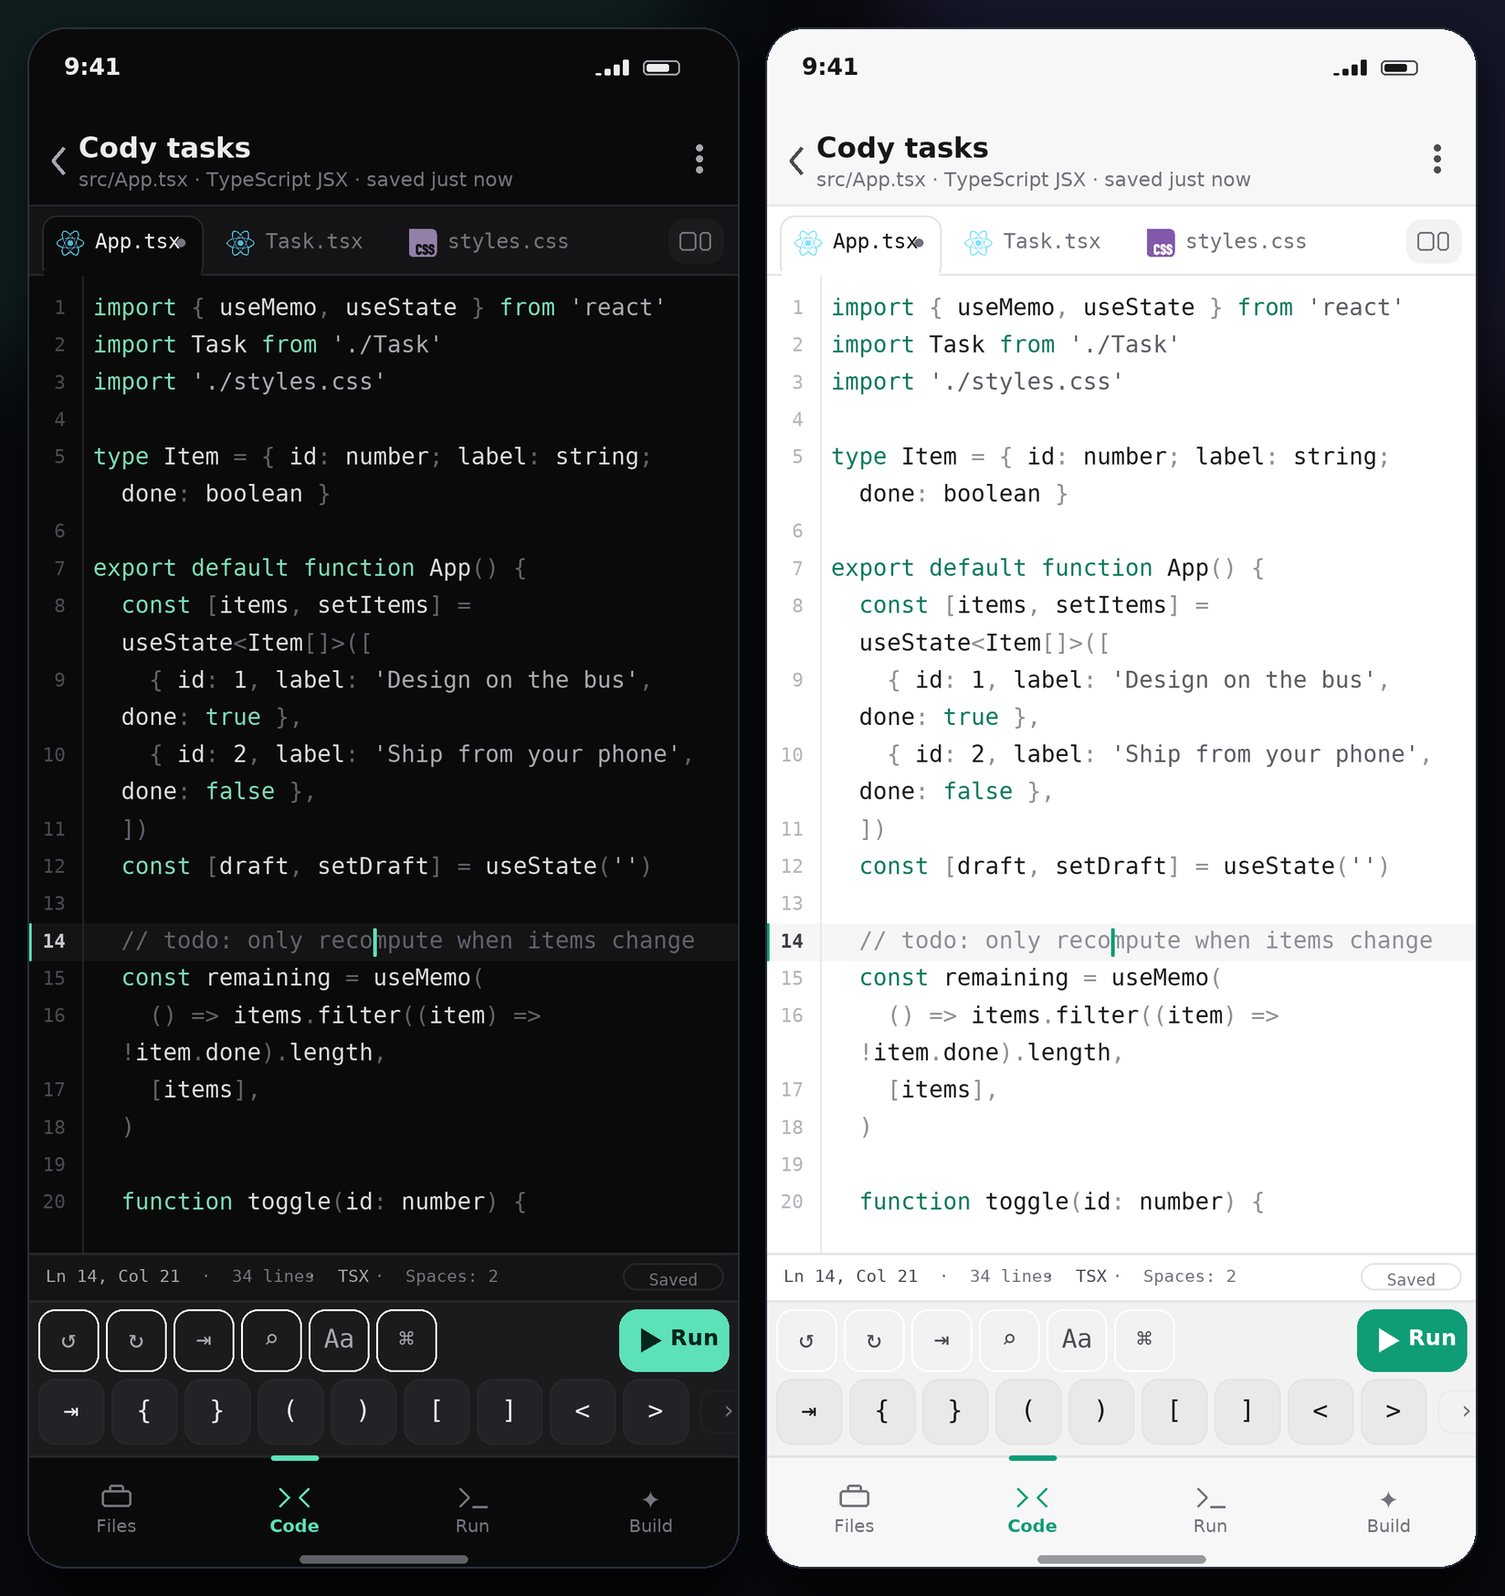
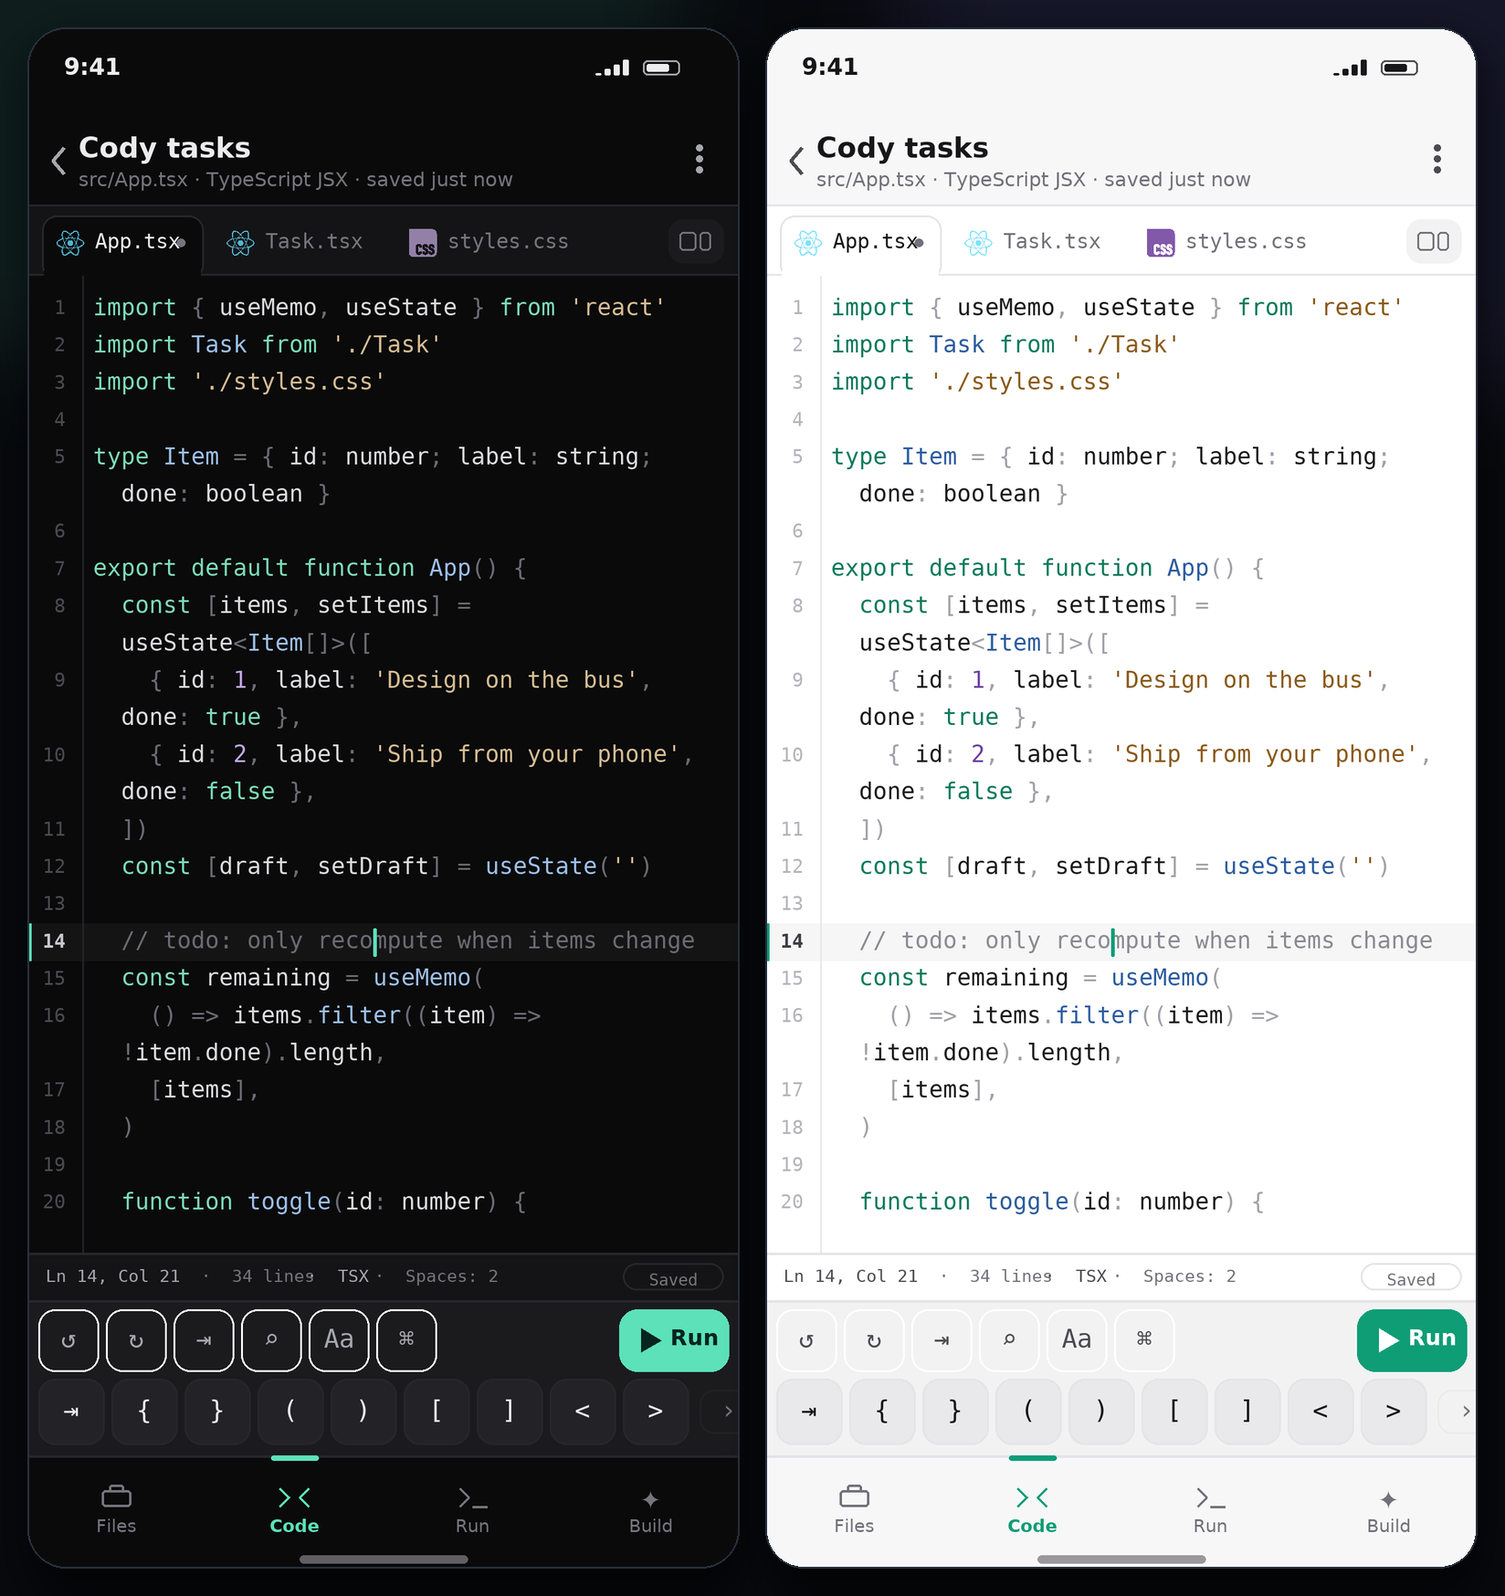
feat(syntax): real syntax highlighting for all 27 languages
The single-hue palette I shipped last round left keywords, strings, numbers and
functions the same grey, which reads as 'no syntax highlighting'. Restored a
purpose-built syntax palette and proved every language actually uses it.

- editor/theme.ts: four hues over a neutral ink ramp — mint (keywords, tags,
  self), sand (strings, text, escapes), mauve (numbers, constants, units),
  steel (functions, types, classes), grey italic (comments), dim (properties),
  faint (punctuation/operators), one red for invalid. Both themes, same six
  colours; the highlighter now also covers bool/null/atom/constant, modifiers,
  compare/arithmetic/logic/bitwise operators, doc strings and headings.
- fix(languages): C# and Kotlin had no highlighting at all — they were routed
  through a clikeMode() helper that no longer exists in @codemirror/legacy-modes
  6 (the export is a ready-made StreamParser). Both now use the plain legacy
  loader, so all 27 advertised languages have a grammar.
- scripts/test-syntax.ts (new suite): parses a real sample in every language,
  asserts the highlighter emitted >= 2 distinct styles, and that keywords /
  comments / strings in Python, CSS properties vs values, and JSON keys vs
  numbers land on different styles, in both themes.
- app smoke test now asserts the live editor splits a file into styled spans.
- mock renderer maps the new palette slots.

diff --git a/src/editor/theme.ts b/src/editor/theme.ts
@@ -15,21 +15,28 @@ type Palette = {
   gutterActive: string
   panel: string
   border: string
-  /** The only hue in the editor. Same family as the app accent (mint). */
-  key: string
-  /** Softer step of the same hue, for strings and markup values. */
-  keySoft: string
-  /** One muted red, reserved for actual errors. */
+  /** Four syntax hues and a grey ramp. Nothing else is coloured. */
+  keyword: string
+  string: string
+  number: string
+  func: string
+  comment: string
+  property: string
+  operator: string
+  /** One muted red, reserved for invalid code. */
   invalid: string
 }
 
-/** Two palettes, one hue.
+/** Two palettes, four hues.
  *
- *  A phone screen is small and a phone editor is read in glances, so the syntax
- *  palette is a neutral ink ramp: brightness and weight carry the structure,
- *  comments recede into italic grey, and a single mint — the same mint as the
- *  app's accent — marks the parts that drive a program (keywords, tags). One
- *  red exists only for invalid code. Nothing else is coloured. */
+ *  Syntax has to be *read*: a keyword, a string, a number and a function body
+ *  should not all be the same grey. But an editor on a phone is not a
+ *  highlighter demo either, so the palette is deliberately small — mint for the
+ *  words that shape a program (keywords, tags, `self`), warm sand for strings
+ *  and literals, steel blue for things you can call or construct, mauve for
+ *  numbers and constants — over a neutral ink ramp for everything else.
+ *  Comments fade to italic grey, properties to dim grey, punctuation to faint
+ *  grey, so structure recedes and no line turns into confetti. */
 const DARK: Palette = {
   bg: '#0a0a0b',
   fg: '#dcdcdf',
@@ -43,8 +50,13 @@ const DARK: Palette = {
   gutterActive: '#c8c8cd',
   panel: '#141416',
   border: '#27272b',
-  key: '#7ddcb8',
-  keySoft: '#a9a9b0',
+  keyword: '#7ddcb8',
+  string: '#d6bd93',
+  number: '#c3a9e8',
+  func: '#9dc0e8',
+  comment: '#6b6b74',
+  property: '#a2a2ab',
+  operator: '#6b6b74',
   invalid: '#e06c6c',
 }
 
@@ -61,8 +73,13 @@ const LIGHT: Palette = {
   gutterActive: '#3d3d44',
   panel: '#f5f5f6',
   border: '#e4e4e7',
-  key: '#0b7a5c',
-  keySoft: '#5c5c64',
+  keyword: '#0b7a5c',
+  string: '#8a5a1a',
+  number: '#6b3fa0',
+  func: '#2c5c9e',
+  comment: '#8a8a92',
+  property: '#4b4b52',
+  operator: '#a0a0a8',
   invalid: '#b3403f',
 }
 
@@ -186,31 +203,65 @@ function theme(p: Palette, dark: boolean) {
 
 function highlight(p: Palette) {
   return HighlightStyle.define([
-    // the one hue: the words that shape the program
-    { tag: [t.keyword, t.controlKeyword, t.moduleKeyword, t.definitionKeyword, t.modifier], color: p.key },
-    { tag: [t.tagName, t.angleBracket], color: p.key },
-    // strings sit one step softer than keywords — same family, less volume
-    { tag: [t.string, t.special(t.string), t.character, t.regexp, t.attributeValue], color: p.keySoft },
-    // neutral ink: weight and tone do the work
-    { tag: [t.comment, t.lineComment, t.blockComment, t.docComment], color: p.faint, fontStyle: 'italic' },
-    { tag: [t.function(t.variableName), t.function(t.propertyName), t.labelName], color: p.fg, fontWeight: '600' },
-    { tag: [t.typeName, t.className, t.namespace, t.standard(t.name), t.definition(t.name)], color: p.fg, fontWeight: '600' },
-    { tag: [t.propertyName, t.attributeName], color: p.dim },
-    { tag: [t.number, t.integer, t.float, t.bool, t.null, t.atom], color: p.fg },
-    { tag: [t.operator, t.operatorKeyword, t.derefOperator], color: p.dim },
-    { tag: [t.punctuation, t.bracket, t.separator, t.squareBracket, t.paren, t.brace], color: p.faint },
-    { tag: [t.meta, t.annotation, t.processingInstruction], color: p.faint },
-    { tag: [t.variableName, t.name], color: p.fg },
-    { tag: [t.heading, t.heading1, t.heading2, t.strong], color: p.fg, fontWeight: '700' },
-    { tag: [t.link, t.url], color: p.fg, textDecoration: 'underline' },
+    // mint — the words that shape a program
+    {
+      tag: [
+        t.keyword, t.controlKeyword, t.moduleKeyword, t.definitionKeyword, t.modifier,
+        t.self, t.controlOperator, t.definitionOperator, t.tagName, t.angleBracket,
+      ],
+      color: p.keyword,
+    },
+    // sand — text that the program carries around
+    {
+      tag: [
+        t.string, t.special(t.string), t.character, t.regexp, t.attributeValue,
+        t.escape, t.docString,
+      ],
+      color: p.string,
+    },
+    // mauve — values and constants
+    {
+      tag: [t.number, t.integer, t.float, t.bool, t.null, t.atom, t.constant(t.name), t.literal, t.unit],
+      color: p.number,
+    },
+    // steel — things you call, construct or name as a type
+    {
+      tag: [
+        t.function(t.variableName), t.function(t.propertyName), t.labelName, t.macroName,
+        t.typeName, t.className, t.namespace, t.standard(t.name), t.definition(t.typeName),
+      ],
+      color: p.func,
+    },
+    { tag: [t.color], color: p.number },
+    { tag: [t.comment, t.lineComment, t.blockComment, t.docComment], color: p.comment, fontStyle: 'italic' },
+    { tag: [t.propertyName, t.attributeName], color: p.property },
+    { tag: [t.operator, t.operatorKeyword, t.derefOperator, t.updateOperator], color: p.operator },
+    {
+      tag: [t.punctuation, t.bracket, t.separator, t.squareBracket, t.paren, t.brace, t.compareOperator, t.arithmeticOperator, t.logicOperator, t.bitwiseOperator],
+      color: p.faint,
+    },
+    { tag: [t.meta, t.annotation, t.processingInstruction, t.documentMeta], color: p.comment },
+    { tag: [t.variableName, t.name, t.definition(t.name)], color: p.fg },
+    { tag: [t.heading, t.heading1, t.heading2, t.heading3], color: p.keyword, fontWeight: '700' },
+    { tag: [t.strong], color: p.fg, fontWeight: '700' },
     { tag: [t.emphasis], fontStyle: 'italic' },
     { tag: [t.strikethrough], textDecoration: 'line-through' },
-    { tag: [t.escape], color: p.keySoft },
+    { tag: [t.link, t.url], color: p.func, textDecoration: 'underline' },
+    { tag: [t.list], color: p.keyword },
+    { tag: [t.monospace], color: p.string },
+    { tag: [t.inserted], color: p.keyword },
+    { tag: [t.deleted], color: p.invalid },
+    { tag: [t.changed], color: p.number },
     { tag: [t.invalid], color: p.invalid },
   ])
 }
 
+/** Raw highlight styles — also used by scripts/test-syntax.ts to prove tokens
+ *  actually get distinct styles for every language. */
+export const codyHighlightStyleDark = highlight(DARK)
+export const codyHighlightStyleLight = highlight(LIGHT)
+
 export const codyDarkTheme = theme(DARK, true)
 export const codyLightTheme = theme(LIGHT, false)
-export const codyHighlightDark = syntaxHighlighting(highlight(DARK))
-export const codyHighlightLight = syntaxHighlighting(highlight(LIGHT))
+export const codyHighlightDark = syntaxHighlighting(codyHighlightStyleDark)
+export const codyHighlightLight = syntaxHighlighting(codyHighlightStyleLight)

diff --git a/scripts/test-syntax.ts b/scripts/test-syntax.ts
@@ -1,0 +1,115 @@
+/**
+ * Syntax highlighting, language by language.
+ *
+ * "The editor has no syntax" is a failure that type-checks and renders fine, so
+ * this suite loads **every** language Cody advertises, parses a real sample, and
+ * asserts the highlighter actually emitted distinct styles — plus that the
+ * keywords, strings and comments of that language land on different ones.
+ */
+import { EditorState } from '@codemirror/state'
+import { syntaxTree } from '@codemirror/language'
+import { highlightTree } from '@lezer/highlight'
+import { LANGUAGES, loadLanguageExtension } from '../src/lib/languages'
+import { codyHighlightStyleDark, codyHighlightStyleLight } from '../src/editor/theme'
+
+let failed = 0
+function check(name: string, ok: boolean, detail = '') {
+  if (ok) {
+    console.log(`  ok   ${name}`)
+  } else {
+    failed += 1
+    console.log(`  FAIL ${name}${detail ? ` — ${detail}` : ''}`)
+  }
+}
+
+/** One realistic sample per language: enough tokens to colour. */
+const SAMPLES: Record<string, string> = {
+  javascript: "// pick a name\nconst greet = (who) => `hi ${who}`\nconsole.log(greet('cody'), 42)\n",
+  typescript: "// typed\ntype Point = { x: number; y: number }\nconst at = (p: Point): string => `${p.x}`\n",
+  tsx: "// component\nconst App = () => <div className=\"card\">hi {42}</div>\nexport default App\n",
+  jsx: "// element\nconst el = <button onClick={() => 1}>go</button>\n",
+  html: "<!-- page -->\n<main class=\"wrap\"><h1>Hello</h1></main>\n",
+  css: "/* theme */\n.card {\n  color: #5ce1b9;\n  margin: 2rem;\n}\n",
+  json: '{\n  "name": "cody",\n  "count": 3,\n  "ok": true\n}\n',
+  markdown: '# Cody\n\nSome **bold** text and `code`.\n\n- item\n',
+  python: "def greet(name):\n    # say hi\n    return f'hi {name}' if name else None\n\nprint(greet('cody'), 42)\n",
+  sql: "-- rows\nSELECT id, name FROM users WHERE age > 18\n",
+  xml: '<?xml version="1.0"?>\n<root attr="1"><child>text</child></root>\n',
+  yaml: "# config\nname: cody\ncount: 3\nitems:\n  - one\n",
+  toml: '# config\nname = "cody"\ncount = 3\n',
+  shell: "#!/bin/bash\n# build\nfor f in *.ts; do echo \"$f\"; done\n",
+  c: "#include <stdio.h>\n// main\nint main(void) { return 0; }\n",
+  cpp: "#include <string>\n// class\nclass Dog { public: int age = 3; };\n",
+  java: "// hello\npublic class Main { public static void main(String[] a) { System.out.println(1); } }\n",
+  csharp: "// hello\npublic class Main { static void Run() { var x = 1; } }\n",
+  go: "// main\npackage main\n\nfunc main() { name := \"cody\"; fmt.Println(name) }\n",
+  rust: "// main\nfn main() { let name = \"cody\"; println!(\"{}\", name); }\n",
+  php: "<?php\n// page\n$name = 'cody';\necho $name;\n",
+  ruby: "# greet\ndef greet(name)\n  puts \"hi #{name}\"\nend\n",
+  lua: "-- greet\nlocal function greet(name)\n  print('hi ' .. name)\nend\n",
+  swift: "// greet\nlet name = \"cody\"\nfunc greet(_ who: String) -> String { return \"hi\" }\n",
+  kotlin: "// greet\nfun greet(name: String): String { return \"hi $name\" }\n",
+  dockerfile: "# image\nFROM node:22\nRUN npm install\n",
+  diff: "--- a/x\n+++ b/x\n@@ -1 +1 @@\n-old\n+new\n",
+}
+
+/** Tokens whose styling this suite insists on seeing per language family. */
+type Sample = { code: string; classes: Set<string>; text: Map<string, Set<string>> }
+
+async function style(code: string, languageId: string, light = false): Promise<Sample> {
+  const lang = await loadLanguageExtension(languageId)
+  const state = EditorState.create({ doc: code, extensions: [lang] })
+  const style_ = light ? codyHighlightStyleLight : codyHighlightStyleDark
+  const classes = new Set<string>()
+  const text = new Map<string, Set<string>>()
+  highlightTree(syntaxTree(state), style_, (from, to, cls) => {
+    classes.add(cls)
+    const slice = code.slice(from, to).trim()
+    if (!slice) return
+    if (!text.has(slice)) text.set(slice, new Set())
+    text.get(slice)!.add(cls)
+  })
+  return { code, classes, text }
+}
+
+const CLASS_OF = (sample: Sample, snippet: string) => [...(sample.text.get(snippet) ?? [])][0] ?? ''
+
+for (const language of LANGUAGES) {
+  // plain text has no grammar on purpose: it renders as-is
+  if (language.id === 'text') {
+    check('text: deliberately has no grammar', true)
+    continue
+  }
+  const sample = SAMPLES[language.id]
+  if (!sample) {
+    check(`${language.id}: has a syntax sample`, false, 'no sample in scripts/test-syntax.ts')
+    continue
+  }
+  const styled = await style(sample, language.id)
+  check(`${language.id}: tokens are styled (${styled.classes.size} styles)`, styled.classes.size >= 2, [...styled.classes].join(','))
+}
+
+// A few semantic assertions: the colours must differ from each other.
+const py = await style(SAMPLES.python, 'python')
+check('python: keywords, comments and strings differ', new Set([
+  CLASS_OF(py, 'def'),
+  CLASS_OF(py, '# say hi'),
+  CLASS_OF(py, "'cody'"),
+]).size === 3, JSON.stringify([CLASS_OF(py, 'def'), CLASS_OF(py, '# say hi'), CLASS_OF(py, "'cody'")]))
+
+const css = await style(SAMPLES.css, 'css')
+check('css: properties and values differ', CLASS_OF(css, 'color') !== CLASS_OF(css, '#5ce1b9'), `${CLASS_OF(css, 'color')} / ${CLASS_OF(css, '#5ce1b9')}`)
+
+const json = await style(SAMPLES.json, 'json')
+check('json: keys and strings differ from numbers', CLASS_OF(json, '"name"') !== CLASS_OF(json, '3'), `${CLASS_OF(json, '"name"')} / ${CLASS_OF(json, '3')}`)
+
+const md = await style(SAMPLES.markdown, 'markdown')
+check('markdown: heading styled', Boolean(CLASS_OF(md, 'Cody')), 'Cody (heading text)')
+
+const lightPy = await style(SAMPLES.python, 'python', true)
+check('light theme styles too', lightPy.classes.size >= 2 && [...lightPy.classes].join() !== [...py.classes].join(), [...lightPy.classes].join(','))
+
+check('every advertised language has a sample', Object.keys(SAMPLES).length === LANGUAGES.filter((l) => l.id !== 'text').length)
+
+console.log(failed === 0 ? '\nAll syntax checks passed' : `\n${failed} syntax check(s) failed`)
+process.exit(failed === 0 ? 0 : 1)

diff --git a/src/lib/languages.ts b/src/lib/languages.ts
@@ -96,14 +96,6 @@ const legacy = (load: () => Promise<Record<string, unknown>>, key: string) => as
   return StreamLanguage.define(mod[key] as never)
 }
 
-function clikeMode(load: () => Promise<Record<string, unknown>>, name: string) {
-  return async () => {
-    const mod = await load()
-    const language = (mod.cLike as (config: unknown) => unknown)(mod[name])
-    return StreamLanguage.define(language as never)
-  }
-}
-
 const LOADERS: Record<string, () => Promise<Extension>> = {
   javascript: lazy(async () => (await import('@codemirror/lang-javascript')).javascript()),
   jsx: lazy(async () => (await import('@codemirror/lang-javascript')).javascript({ jsx: true })),
@@ -132,8 +124,8 @@ const LOADERS: Record<string, () => Promise<Extension>> = {
   swift: legacy(() => import('@codemirror/legacy-modes/mode/swift'), 'swift'),
   dockerfile: legacy(() => import('@codemirror/legacy-modes/mode/dockerfile'), 'dockerFile'),
   diff: legacy(() => import('@codemirror/legacy-modes/mode/diff'), 'diff'),
-  csharp: clikeMode(() => import('@codemirror/legacy-modes/mode/clike'), 'csharp'),
-  kotlin: clikeMode(() => import('@codemirror/legacy-modes/mode/clike'), 'kotlin'),
+  csharp: legacy(() => import('@codemirror/legacy-modes/mode/clike'), 'csharp'),
+  kotlin: legacy(() => import('@codemirror/legacy-modes/mode/clike'), 'kotlin'),
 }
 
 export function loadLanguageExtension(languageId: string): Promise<Extension> {

diff --git a/scripts/test-app.tsx b/scripts/test-app.tsx
@@ -245,6 +245,15 @@ async function main() {
   check('file switch remounts editor', Boolean(dom.window.document.querySelector('.cm-editor')))
   check('switched file content loaded', mergedContent.includes('<main') || mergedContent.includes('doctype'), mergedContent.slice(0, 40))
   check('tab strip now has two tabs', dom.window.document.querySelectorAll('.tab-chip').length >= 2)
+  // syntax highlighting end-to-end: the parser must have split a line into styled spans
+  const highlighted = [...dom.window.document.querySelectorAll('.cm-line span')].filter(
+    (span) => (span.textContent ?? '').trim().length > 0,
+  )
+  check(
+    'markup is syntax-highlighted in the live editor',
+    highlighted.length >= 3,
+    `${highlighted.length} styled spans in ${dom.window.document.querySelector('.cm-content')?.textContent?.slice(0, 40)}`,
+  )
   const badge = dom.window.document.querySelector('.tab-chip.active .lang-icon')
   check('active tab carries a language mark', Boolean(badge), badge?.outerHTML ?? '')
   check(

diff --git a/scripts/render-mock.py b/scripts/render-mock.py
@@ -80,13 +80,13 @@ FONT_UI_BOLD = "/usr/share/fonts/truetype/dejavu/DejaVuSans-Bold.ttf"
 # syntax kinds -> palette slots. The editor palette is a neutral ink ramp plus a
 # single mint hue and one error red, so most kinds resolve to a grey step.
 KIND_TO_TOKEN = {
-    "keyword": "key",
-    "string": "keySoft",
-    "comment": "faint",
-    "number": "fg",
-    "operator": "faint",
-    "func": "fg",
-    "type": "fg",
+    "keyword": "keyword",
+    "string": "string",
+    "comment": "comment",
+    "number": "number",
+    "operator": "operator",
+    "func": "func",
+    "type": "func",
     "fg": "fg",
 }
 

diff --git a/README.md b/README.md
@@ -126,11 +126,16 @@ Details that matter on a phone:
   mark (plain text) keep a small monogram badge, and near-black marks (Rust, JSON, Markdown) are
   mixed toward the theme ink so they stay visible on the dark theme.
   Regenerate the table with `npm run language-icons`.
-- **One hue, not a rainbow.** The editor is a neutral ink ramp — bright for the code you read,
-  dim for punctuation and properties, faint italic for comments — plus a single mint that marks
-  the words that shape a program (keywords, tags, strings one step softer). One muted red exists
-  only for invalid code. Nothing else in the code area is coloured; the only colour on screen is
-  in the little file-type marks.
+- **Four hues, not a rainbow.** Syntax has to be readable: a keyword, a string, a number and a
+  function name should not all be the same grey. So the palette is a small, deliberate set —
+  **mint** for keywords, tags and `self`, **sand** for strings and text, **mauve** for numbers and
+  constants, **steel** for things you call or construct — over a neutral ink ramp (bright for
+  identifiers, dim for properties, faint for punctuation, italic grey for comments). One muted
+  red exists only for invalid code. Six colours total, all shared by both themes, which is why
+  the code reads as code instead of an ink blot or a bowl of confetti.
+  Every language gets its own grammar: JS/TS/TSX, Python, HTML, CSS, JSON, Markdown, SQL, XML,
+  YAML, TOML, Shell, C, C++, Java, C#, Go, Rust, PHP, Ruby, Lua, Swift, Kotlin, Dockerfile and
+  Diff — each lazily loaded, so a phone only downloads the grammar it opens.
 - **Keyboard-aware.** When the OS keyboard opens, `visualViewport` height is measured and the rail
   docks to it (sticky) rather than being pushed off-screen. The ⌄ key dismisses the keyboard.
 - **Both themes are real.** Dark and light are separate palettes for chrome *and* syntax, including
